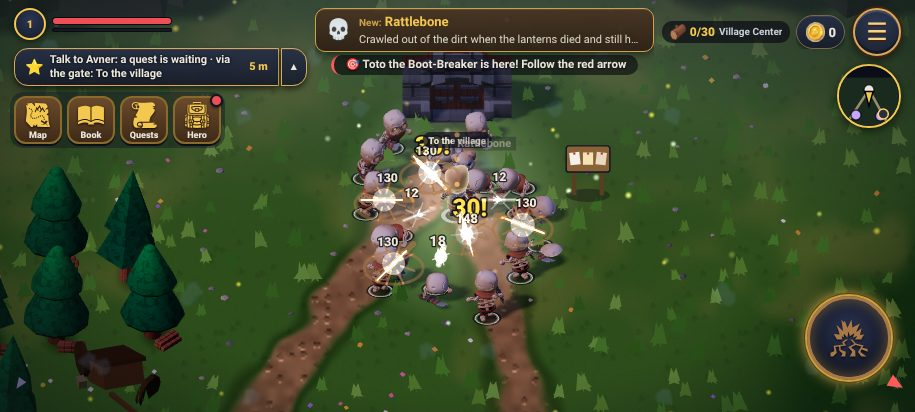
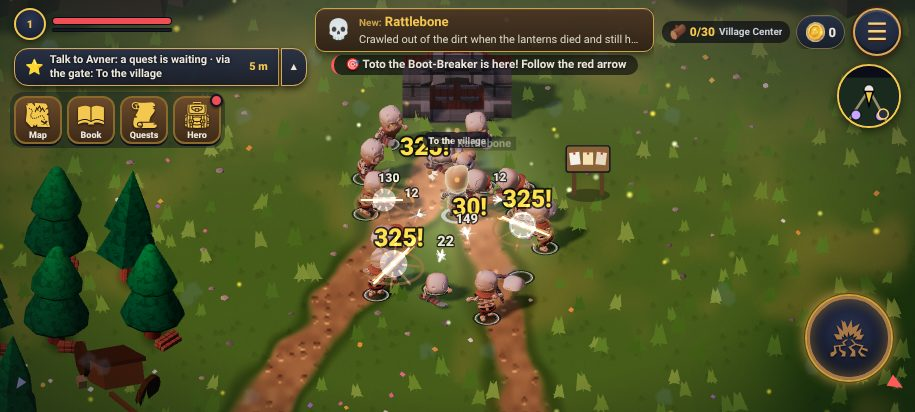
מכה חדה: ליד הגיבור עד 2 בפריים, קטנים ועמומים, כדי שימצאו אותו בקרב צפוף
Claude-Session: https://claude.ai/code/session_01ABMDoKataRxnJZfZsr6gt8

diff --git a/js/sharphit.js b/js/sharphit.js
@@ -15,9 +15,10 @@ const SHARP={
   },
   skill:{len:70,w:9,life:0.16,core:18,rays:8,ray:40,ring:62,lean:0.3,leanT:0.32,heavy:{size:150,gap:0.15}},   // heavy: פגיעה גדולה מהגיליון של סוג הנזק (whit_<סוג> של fxcombat.js), לא hit_heavy הזהוב: זהב שמור לשלל,
   alpha:0.95,
+  near:{r:90,perFrame:2,scale:0.6,alpha:0.6},   // קרוב לגיבור (עד r): לכל היותר perFrame חדשים בפריים, קטנים ועמומים יותר (הרכז, 10.11: הגיבור צריך להימצא בקלות)
   hero:{clear:56,min:0.2}   // הגיבור נשאר גלוי בקרב צפוף: אפקט שמרכזו קרוב מ-clear לגיבור דועך עד min, ובלי פגיעה גדולה מהספרייה
 };
-const SH={w:null,list:[],fr:-1,frN:0,heavyT:-9,stat:{basic:0,skill:0,heavy:0,capped:0,lean:0}};
+const SH={w:null,list:[],fr:-1,frN:0,nearN:0,heavyT:-9,stat:{basic:0,skill:0,heavy:0,capped:0,lean:0}};
 const shOn=()=>SHARP.on&&!!S&&!!S.wd&&!S.mb&&S.mode==='play';
 const shCalm=()=>typeof calmOn==='function'?calmOn():(typeof RM!=='undefined'&&RM);
 const shLess=()=>typeof fxLess==='function'&&fxLess();
@@ -34,17 +35,19 @@ juiceHit=function(e,d,m,crit,t,ang){
 function shAdd(e,w,t,ang,crit){
   const sk=w==='skill',B=sk?SHARP.skill:SHARP.basic[w==='gun'?'gun':w==='sword'?'sword':null];if(!B)return;   // חיה, חפץ מסתובב, פצצה: לא כאן
   const fr=typeof S.frame==='number'?S.frame:Math.round(jNow()*120);
-  if(fr!==SH.fr){SH.fr=fr;SH.frN=0}
-  if(SH.frN>=SHARP.perFrame){SH.stat.capped++;return}SH.frN++;
+  if(fr!==SH.fr){SH.fr=fr;SH.frN=0;SH.nearN=0}
+  if(SH.frN>=SHARP.perFrame){SH.stat.capped++;return}
+  const cx=e.x,cy=e.y-e.r*0.6,near=Math.hypot(cx-P.x,cy-P.y)<SHARP.near.r;   // על האויב עצמו, לא בצד שפונה לגיבור
+  if(near&&SH.nearN>=SHARP.near.perFrame){SH.stat.capped++;return}
+  SH.frN++;if(near)SH.nearN++;
   if(SH.list.length>=SHARP.max)SH.list.shift();
-  const cx=e.x,cy=e.y-e.r*0.6;   // על האויב עצמו, לא בצד שפונה לגיבור
-  SH.list.push({x:cx,y:cy,a:ang,t0:jNow(),B,sk,col:dtCol(t),crit:!!crit,seed:Math.random()*6.28});
+  SH.list.push({x:cx,y:cy,a:ang,t0:jNow(),B,sk,near,col:dtCol(t),crit:!!crit,seed:Math.random()*6.28});
   sk?SH.stat.skill++:SH.stat.basic++;
   // הרתיעה: חזקה יותר מזו של hitfeel.js (שכבר התחילה בתוך juiceHit). בלי בוס, וכבוי בהפחתת תנועה
   if(!shCalm()&&e.hfT&&!e.isBoss){const k=B.lean*(crit?1.2:1)/(e.big||1);if(k>(e.hfK||0)){e.hfK=k;SH.stat.lean++}if(sk&&B.leanT)e.hfD=Math.max(e.hfD||0,B.leanT)}
   // סקיל: פיצוץ כבד מהספרייה, פעם אחת להטלה (לא על כל אויב בקבוצה)
   const H=sk&&B.heavy,now=jNow();
-  if(H&&now-SH.heavyT>H.gap&&Math.hypot(cx-P.x,cy-P.y)>SHARP.hero.clear&&typeof fxPlay==='function'&&!(typeof fxcRoom==='function'&&!fxcRoom())){SH.heavyT=now;SH.stat.heavy++;
+  if(H&&now-SH.heavyT>H.gap&&!near&&typeof fxPlay==='function'&&!(typeof fxcRoom==='function'&&!fxcRoom())){SH.heavyT=now;SH.stat.heavy++;
     const id=typeof FXC!=='undefined'&&FXC.type[t]?'whit_'+FXC.type[t]:null;
     if(id)try{fxPlay(id,cx,cy,{size:H.size*(shLess()?0.75:1),add:true,rot:SH.list[SH.list.length-1].seed})}catch(_){}}
 }
@@ -55,7 +58,7 @@ function shDraw(){
   const now=jNow(),less=shLess(),calm=shCalm();let j=0;
   ctx.save();ctx.globalCompositeOperation='lighter';ctx.lineCap='round';
   for(const f of SH.list){const B=f.B,k=(now-f.t0)/B.life;if(k>=1||k<0)continue;SH.list[j++]=f;
-    const hd=Math.hypot(f.x-P.x,f.y-P.y),hc=SHARP.hero,a=(1-k)*(hd<hc.clear?Math.max(hc.min,hd/hc.clear):1),ca=Math.cos(f.a),sa=Math.sin(f.a),K=f.crit?1.2:1;   // ליד הגיבור: דועך
+    const hd=Math.hypot(f.x-P.x,f.y-P.y),hc=SHARP.hero,N=SHARP.near,a=(1-k)*(hd<hc.clear?Math.max(hc.min,hd/hc.clear):1)*(f.near?N.alpha:1),ca=Math.cos(f.a),sa=Math.sin(f.a),K=(f.crit?1.2:1)*(f.near?N.scale:1);   // ליד הגיבור: דועך
     // פס הכיוון: נפתח מהר לאורך המכה ונעלם. צבע בחוץ, לבן בפנים
     const L=B.len*K*(0.55+0.45*Math.min(1,k*4)),x0=f.x-ca*L*0.55,y0=f.y-sa*L*0.55,x1=f.x+ca*L*0.45,y1=f.y+sa*L*0.45;
     ctx.globalAlpha=SHARP.alpha*a;ctx.strokeStyle=f.col;ctx.lineWidth=B.w*K*a+1;ctx.beginPath();ctx.moveTo(x0,y0);ctx.lineTo(x1,y1);ctx.stroke();

diff --git a/tools/check.js b/tools/check.js
@@ -1560,6 +1560,7 @@ function worldBot(m,L,god){
       const e3=mk(-80,0),c=hit('skill',e3),k3=e3.hfK;r.skill=!!c&&c.sk&&SH.stat.skill===st.skill+1;
       r.stronger=c&&a&&c.B.core>a.B.core*1.5&&c.B.rays>a.B.rays&&k3>k1;r.lean=[+(k1||0).toFixed(2),+(k3||0).toFixed(2)];
       const n0=SH.list.length;SH.fr=-1;for(let i=0;i<20;i++)damage(e1,1,'sword',0);r.cap=SH.list.length-n0<=SHARP.perFrame&&SH.list.length<=SHARP.max;
+      const n1=SH.list.length;SH.fr=-1;for(let i=0;i<6;i++)damage(mk(40+i*6,10),1,'sword',0);const nn=SH.list.slice(n1);r.near=nn.length===SHARP.near.perFrame&&nn.every(f=>f.near);
       const drawRaw=()=>{try{juiceDraw()}catch(_){}};drawRaw();r.drawn=SH.list.length>0;
       const t0=performance.now;performance.now=()=>t0.call(performance)+1000;drawRaw();performance.now=t0;r.gone=SH.list.length===0;
       SAVE.calm=true;const e4=mk(0,70),l0=SH.stat.lean;const d=hit('sword',e4);r.calm=!!d&&SH.stat.lean===l0;SAVE.calm=calm0;
@@ -5043,9 +5044,9 @@ const wf=MBWX.falls;MBWX.falls=0;MB.t=5;const k1=mbWxK(MB);MB.t=MOBA.maxT*0.9;co
   check(!hold.err&&hold.open&&hold.still&&hold.closed&&hold.resume&&hold.vHold&&hold.prod,
     'חלון עוצר את העולם: '+(hold.err||[hold.open?'היומן נפתח בתפריט':'היומן לא נפתח',hold.still?'5 שניות בלי נזק ובלי תזוזה':'העולם המשיך מאחורי היומן',
       hold.closed&&hold.resume?'בסגירה הקרב חוזר':'הקרב לא חזר',hold.vHold&&hold.prod?'בכפר הייצור ממשיך לפי השעון':'הייצור בכפר נעצר'].join(', ')));
-  check(!shk.err&&shk.sword&&shk.bow&&shk.skill&&shk.stronger&&shk.cap&&shk.drawn&&shk.gone&&shk.calm&&shk.pet,
+  check(!shk.err&&shk.sword&&shk.bow&&shk.skill&&shk.stronger&&shk.cap&&shk.near&&shk.drawn&&shk.gone&&shk.calm&&shk.pet,
     'מכה חדה: '+(shk.err||[shk.sword?'חרב: פס בכיוון המכה':'חרב: אין',shk.bow?'קשת: פס דק':'קשת: אין',shk.skill?'סקיל':'סקיל: אין',
-    shk.stronger?'הסקיל חזק יותר (רתיעה '+shk.lean.join(' מול ')+')':'הסקיל לא חזק יותר',shk.cap?'תקרה בפריים':'בלי תקרה',shk.drawn&&shk.gone?'מצויר ונעלם':'לא נעלם',
+    shk.stronger?'הסקיל חזק יותר (רתיעה '+shk.lean.join(' מול ')+')':'הסקיל לא חזק יותר',shk.cap?'תקרה בפריים':'בלי תקרה',shk.near?'ליד הגיבור: עד 2, קטנים':'ליד הגיבור: בלי תקרה',shk.drawn&&shk.gone?'מצויר ונעלם':'לא נעלם',
     shk.calm?'הפחתת תנועה: בלי רתיעה נוספת':'רתיעה בהפחתת תנועה',shk.pet?'חיה לא':'גם חיה'].join(', ')));
   check(!skt.err&&skt.on&&skt.out&&skt.block&&skt.noCls&&skt.inR>=2&&skt.in&&skt.ring&&skt.danger&&skt.now&&skt.tap&&skt.group&&skt.end&&skt.blockAfter,
     'הסקיל הראשון מלמד ('+skt.id+'): '+(skt.err||[skt.on?'פועל':'לא פועל',skt.out&&skt.block&&skt.noCls?'נגיעה בלי מטרה לא מבזבזת':'נגיעה בלי מטרה בוזבזה',
